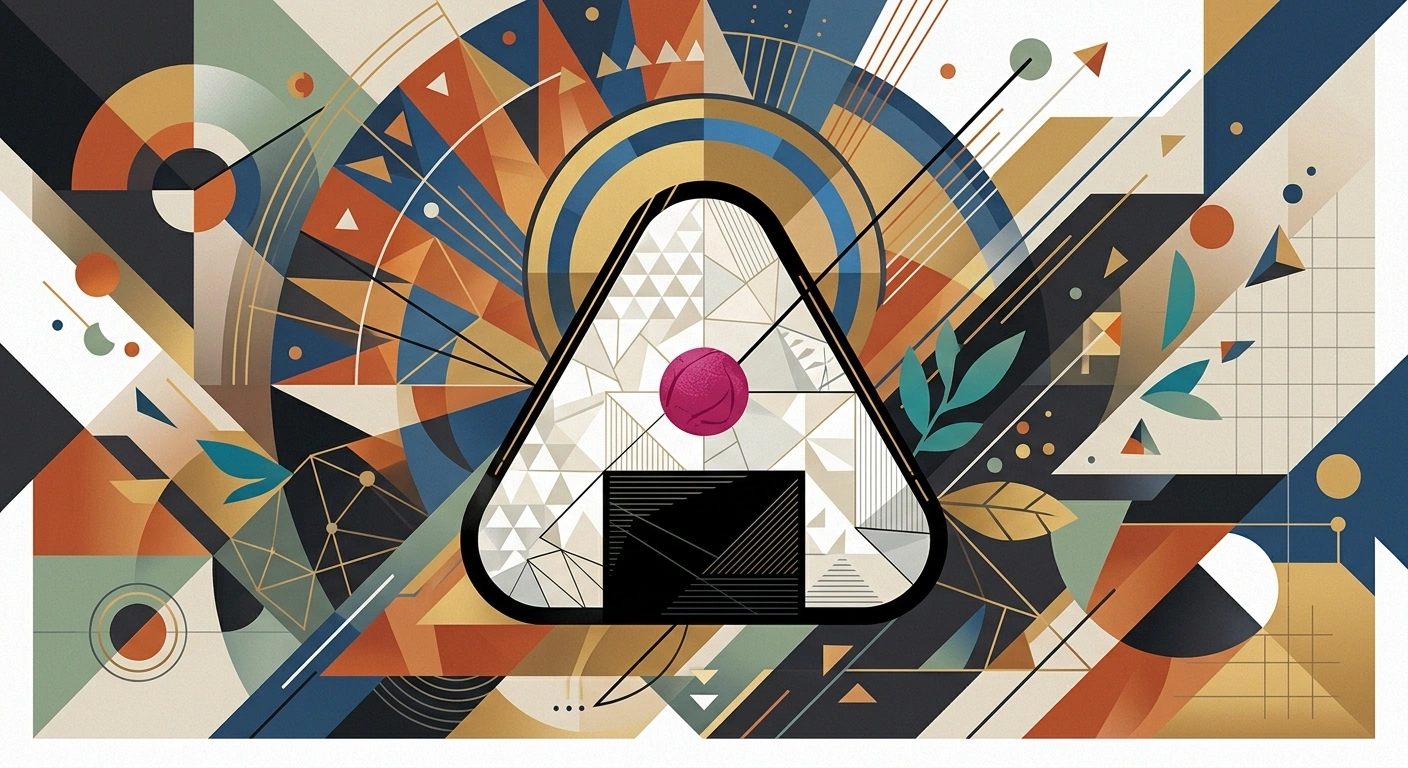
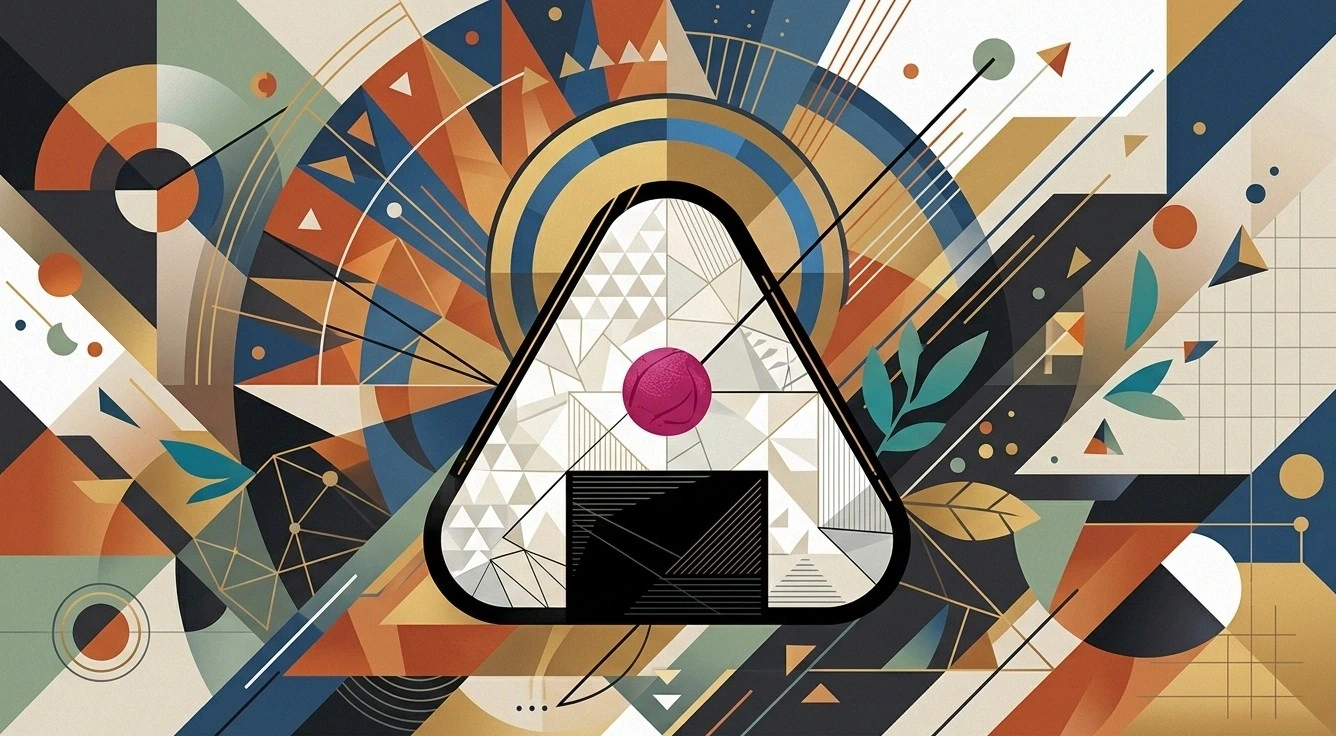
new badges

diff --git a/lib/achievements/badgeImages.ts b/lib/achievements/badgeImages.ts
@@ -23,7 +23,7 @@ export const BADGE_IMAGES: Record<string, string> = {
   // Ten-Ten
   hiragana_dakuten_1: "dragon.webp", // First Ten-Ten (Hiragana)
   hiragana_dakuten_5: "ema.webp", // 5 Ten-Ten (Hiragana)
-  hiragana_dakuten_10: "fujin.webp", // 10 Ten-Ten (Hiragana)
+  hiragana_dakuten_10: "fuji.webp", // 10 Ten-Ten (Hiragana)
   hiragana_dakuten_all: "geisha.webp", // All Ten-Ten (Hiragana)
   // Maru
   hiragana_handakuten_1: "Inari.webp", // First Maru (Hiragana)
@@ -88,39 +88,39 @@ export const BADGE_IMAGES: Record<string, string> = {
   kanji_total_50: "yumi.webp", // 50 Kanji
   kanji_n5_all: "nara.webp", // All N5 Kanji
   // N4
-  kanji_n4_1: "", // First N4 Kanji
-  kanji_total_100: "", // 100 Kanji
-  kanji_n4_all: "", // All N4 Kanji
+  kanji_n4_1: "ashikaga.webp", // First N4 Kanji
+  kanji_total_100: "bento.webp", // 100 Kanji
+  kanji_n4_all: "furin.webp", // All N4 Kanji
   // N3
-  kanji_n3_1: "", // First N3 Kanji
-  kanji_total_500: "", // 500 Kanji
-  kanji_n3_all: "", // All N3 Kanji
+  kanji_n3_1: "geta.webp", // First N3 Kanji
+  kanji_total_500: "gyouza.webp", // 500 Kanji
+  kanji_n3_all: "kanzashi.webp", // All N3 Kanji
   // N2
-  kanji_n2_1: "", // First N2 Kanji
-  kanji_n2_all: "", // All N2 Kanji
+  kanji_n2_1: "kintsugi.webp", // First N2 Kanji
+  kanji_n2_all: "shuriken.webp", // All N2 Kanji
   // N1
-  kanji_n1_1: "", // First N1 Kanji
-  kanji_total_1000: "", // 1000 Kanji
-  kanji_total_1500: "", // 1500 Kanji
-  kanji_total_2000: "", // 2000 Kanji
-  kanji_n1_all: "", // All N1 Kanji
+  kanji_n1_1: "temari.webp", // First N1 Kanji
+  kanji_total_1000: "wagasa.webp", // 1000 Kanji
+  kanji_total_1500: "teru.webp", // 1500 Kanji
+  kanji_total_2000: "origami.webp", // 2000 Kanji
+  kanji_n1_all: "onsen.webp", // All N1 Kanji
 
   // ===== Vocabulary =====
   // N5
-  word_total_1: "", // First Word
-  word_total_5: "", // 5 Words
-  word_total_10: "", // 10 Words
-  word_total_50: "", // 50 Words
-  word_total_100: "", // 100 Words
-  word_total_500: "", // 500 Words
-  word_n5_all: "", // All N5 Words
+  word_total_1: "shinkansen.webp", // First Word
+  word_total_5: "dotonbori.webp", // 5 Words
+  word_total_10: "mecha.webp", // 10 Words
+  word_total_50: "usagi.webp", // 50 Words
+  word_total_100: "kokeshi.webp", // 100 Words
+  word_total_500: "kawagoe.webp", // 500 Words
+  word_n5_all: "akihabara.webp", // All N5 Words
   // N4
-  word_n4_1: "", // First N4 Word
-  word_total_1000: "", // 1000 Words
-  word_n4_all: "", // All N4 Words
+  word_n4_1: "itsukushima.webp", // First N4 Word
+  word_total_1000: "namba.webp", // 1000 Words
+  word_n4_all: "tokyo_tower.webp", // All N4 Words
   // N3
-  word_n3_1: "", // First N3 Word
-  word_total_1500: "", // 1500 Words
+  word_n3_1: "shibuya.webp", // First N3 Word
+  word_total_1500: "owakudani.webp", // 1500 Words
   word_total_2000: "", // 2000 Words
   word_n3_all: "", // All N3 Words
   // N2
@@ -128,7 +128,7 @@ export const BADGE_IMAGES: Record<string, string> = {
   word_n2_all: "", // All N2 Words
   // N1
   word_n1_1: "", // First N1 Word
-  word_n1_all: "", // All N1 Words
+  word_n1_all: "yen.webp", // All N1 Words
 
   // ===== JLPT Levels =====
   n5_completed: "", // N5 Completed
